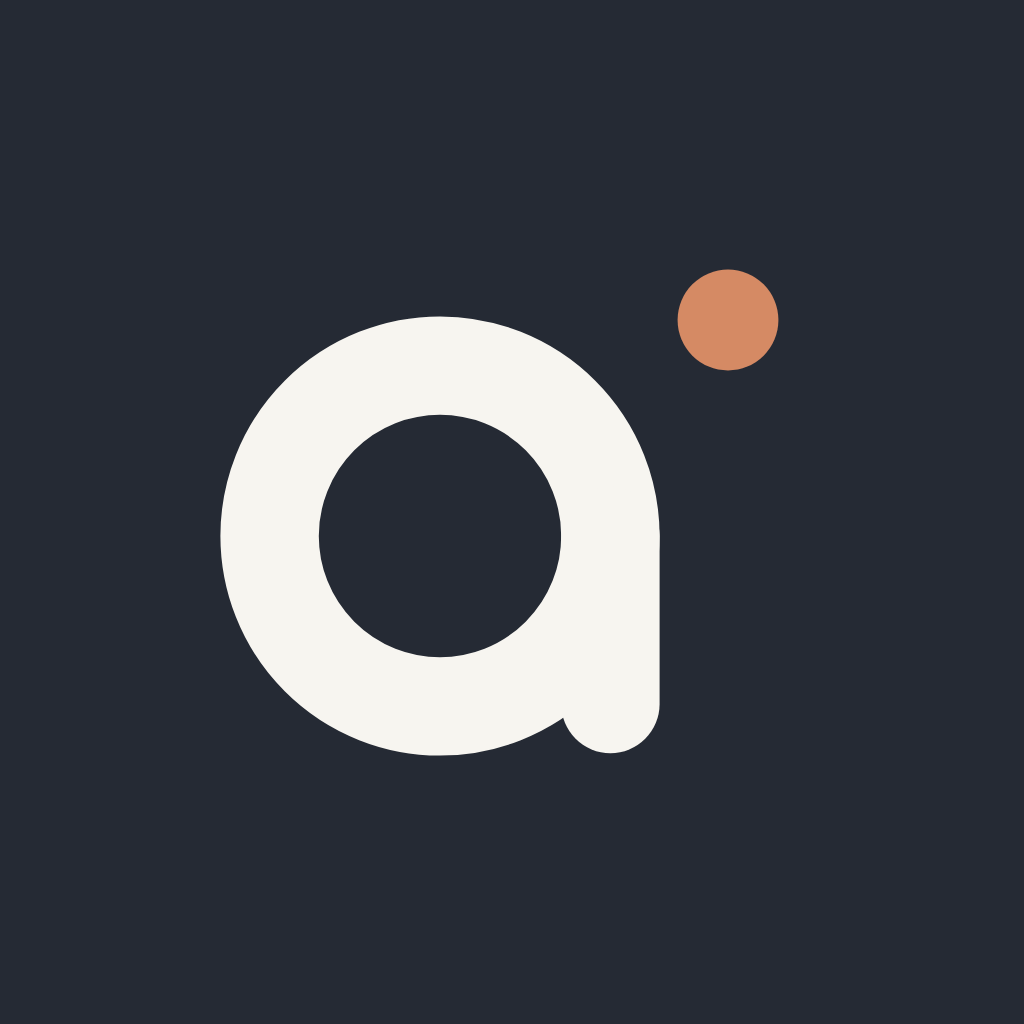
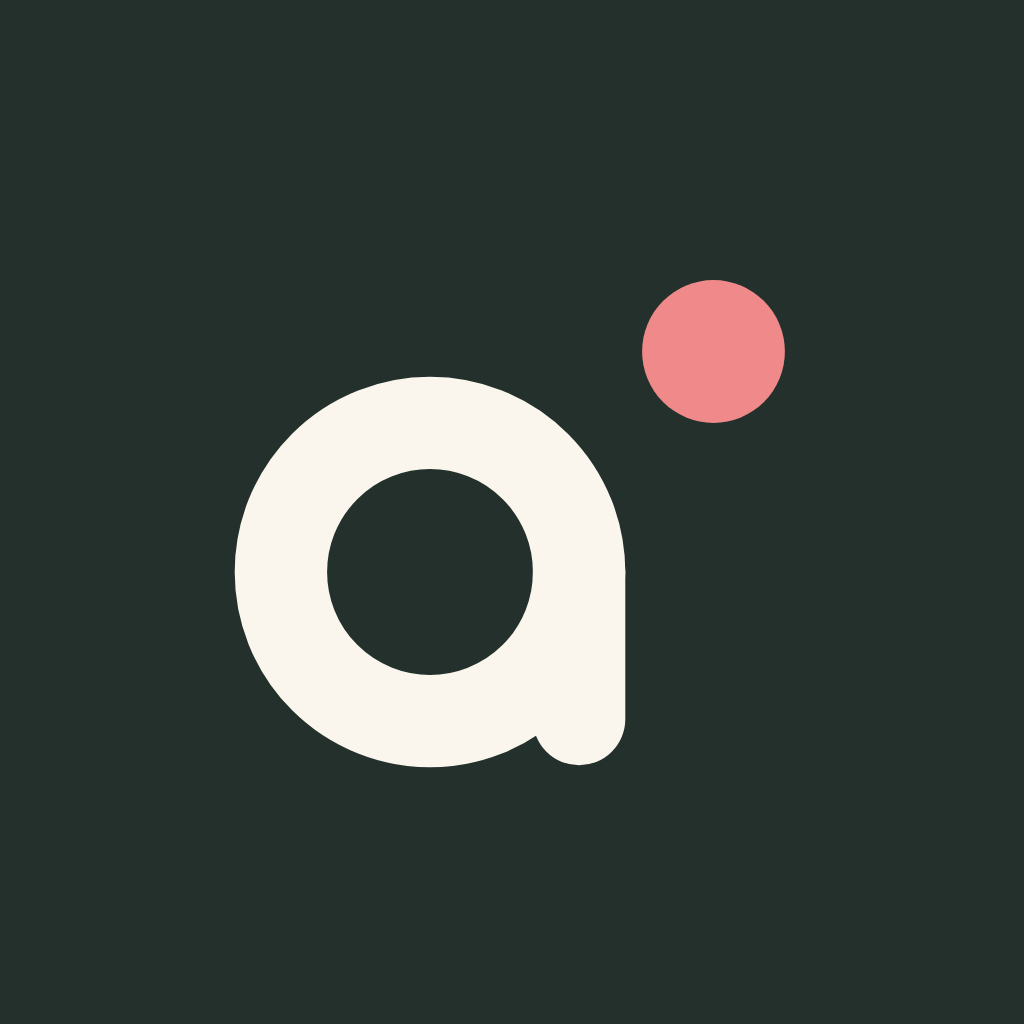
[AFTER] feat: 앱 로고 — a 에 블러시 점 (#75)
같은 a 에 점을 키우고(r 2.1 → 3.4) 블러시로 칠한다. 기존 심벌을 잇되 작게 봐도
"설레는" 인상이 남게.

- 앱 아이콘·스토어 1024·파비콘·홈 화면 아이콘·스플래시·헤더 마크(LogoMark)
- 토큰 --brand-blush: 크림 화면 #EB7B78 / 다크 #F08A8A. 봉랍(signature)은 그대로
- 고친 것: icon-512·apple-touch-icon 이 512 캔버스 왼쪽 위 64px 에만 그려져
  배포되고 있었다(favicon.svg 의 intrinsic 크기를 그대로 찍던 절차). 512 로
  찍고, 홈 화면 아이콘은 꽉 찬 스토어 아이콘에서 줄인다. 절차 문서도 고침

Changed region(s): [[0.1875, 0.25, 0.7812, 0.75], [0.25, 0.6562, 0.2812, 0.6875]]

diff --git a/src/styles.css b/src/styles.css
@@ -146,6 +146,7 @@
   --color-brand-700: var(--brand-700);
   --color-brand-800: var(--brand-800);
   --color-brand-signature: var(--brand-signature);
+  --color-brand-blush: var(--brand-blush);
   --color-brand-text: var(--brand-text);
   --color-brand-tint: var(--brand-tint);
   --color-peach-300: var(--peach-300);
@@ -199,6 +200,12 @@
 
   /* 봉랍: 로고 점·인용부호·링크·선택 표시. 큰 면으로 쓰지 않는다. */
   --brand-signature: var(--brand-700);
+  /*
+    로고 점(2026-10-11). 봉랍(signature)과 따로 둔다 — 봉랍은 인용부호·링크·선택에
+    쓰는 차분한 색이고, 점은 "설레는" 블러시다. 크림 바탕 위에서 묻히지 않게 아이콘
+    (#F08A8A)보다 한 단계 짙게 쓴다.
+  */
+  --brand-blush: oklch(0.709 0.139 22.8); /* #EB7B78 */
   --brand-text: var(--brand-700);
   --brand-tint: oklch(0.929 0.024 77.5); /* #F1E6D6 — 선택 면·내 말풍선 */
   --peach-300: var(--brand-tint);
@@ -313,6 +320,7 @@
   --bubble-mine: oklch(0.287 0.015 84.6); /* #2E2A22 — 글자 12.24 */
   --bubble-mine-foreground: var(--ink);
   --brand-signature: oklch(0.813 0.074 66.5);
+  --brand-blush: oklch(0.743 0.125 20.5); /* #F08A8A — 앱 아이콘과 같은 점 */
   --brand-text: oklch(0.813 0.074 66.5);
   --brand-tint: oklch(0.287 0.015 84.6);
 

diff --git a/src/components/Logo.tsx b/src/components/Logo.tsx
@@ -2,7 +2,9 @@ import { BRAND } from "@/lib/brand";
 import { cn } from "@/lib/utils";
 
 /**
- * Compact after monogram: a single-storey a with a small signature dot.
+ * Compact after monogram: a single-storey a with a blush dot (2026-10-11).
+ * 앱 아이콘(brand/app-icon-ios.svg)·파비콘과 같은 형태다. 점이 예전보다 크고
+ * 블러시라 작게 그려도 "설레는" 인상이 남는다.
  */
 export function LogoMark({ className }: { className?: string }) {
   return (
@@ -12,9 +14,9 @@ export function LogoMark({ className }: { className?: string }) {
       aria-hidden="true"
       className={cn("size-6 text-foreground", className)}
     >
-      <circle cx="13" cy="17" r="7.1" stroke="currentColor" strokeWidth="4.1" />
-      <path d="M20.1 17v7" stroke="currentColor" strokeWidth="4.1" strokeLinecap="round" />
-      <circle cx="25" cy="8" r="2.1" fill="var(--color-brand-signature)" />
+      <circle cx="13" cy="17" r="7.1" stroke="currentColor" strokeWidth="4.4" />
+      <path d="M20.1 17v7" stroke="currentColor" strokeWidth="4.4" strokeLinecap="round" />
+      <circle cx="26.5" cy="6.5" r="3.4" fill="var(--color-brand-blush)" />
     </svg>
   );
 }

diff --git a/docs/brand-assets.md b/docs/brand-assets.md
@@ -1,6 +1,6 @@
 # 애프터 브랜드 자산
 
-현재 기준은 [리브랜딩 설계안](after-rebrand-plan.md)이다. 워드마크·심벌 SVG가 원본이며, 화면 마크는 [Logo.tsx](../src/components/Logo.tsx), 웹 아이콘은 [favicon.svg](../public/favicon.svg), iOS 아이콘은 [app-icon-ios.svg](../brand/app-icon-ios.svg), 실행 화면은 [splash.svg](../brand/splash.svg)에서 관리한다.
+현재 기준은 [리브랜딩 설계안](after-rebrand-plan.md)이다. 2026-10-11 심벌을 바꿨다: 같은 a 에 점을 키우고(r 3.4) 블러시(#F08A8A, 크림 바탕 화면에서는 #EB7B78)로 칠했다. 배경 잉크 #23302B, 글자 크림 #FAF6EE. 워드마크·심벌 SVG가 원본이며, 화면 마크는 [Logo.tsx](../src/components/Logo.tsx), 웹 아이콘은 [favicon.svg](../public/favicon.svg), iOS 아이콘은 [app-icon-ios.svg](../brand/app-icon-ios.svg), 실행 화면은 [splash.svg](../brand/splash.svg)에서 관리한다.
 
 ## 래스터 자산 재생성
 
@@ -9,15 +9,21 @@ macOS의 Chrome과 `sips`를 사용한다. 벡터를 고친 뒤 저장소 루트
 ```bash
 CHROME="/Applications/Google Chrome.app/Contents/MacOS/Google Chrome"
 
+# favicon.svg 는 width/height 가 64 라 그대로 찍으면 512 캔버스 왼쪽 위 64px 에만
+# 그려진다(2026-10-11 까지 실제로 그렇게 배포됐다). 512 로 바꾼 사본을 찍는다.
+sed 's/width="64" height="64"/width="512" height="512"/' public/favicon.svg > /tmp/favicon-512.svg
 "$CHROME" --headless --disable-gpu --force-device-scale-factor=1 \
   --screenshot="$PWD/public/icon-512.png" --window-size=512,512 \
-  --default-background-color=00000000 "file://$PWD/public/favicon.svg"
-sips -z 180 180 public/icon-512.png --out public/apple-touch-icon.png
+  --default-background-color=00000000 "file:///tmp/favicon-512.svg"
+python3 -c "from PIL import Image; Image.open('public/icon-512.png').save('public/favicon.ico', sizes=[(16,16),(32,32),(48,48)])"
 
 "$CHROME" --headless --disable-gpu --force-device-scale-factor=1 \
   --screenshot="$PWD/brand/app-store-1024.png" --window-size=1024,1024 \
   --default-background-color=ffffffff "file://$PWD/brand/app-icon-ios.svg"
 cp brand/app-store-1024.png ios/App/App/Assets.xcassets/AppIcon.appiconset/AppIcon-512@2x.png
+# 홈 화면 아이콘은 iOS 가 직접 모서리를 깎는다. 투명 모서리가 있으면 검게 보이므로
+# 둥근 favicon 이 아니라 꽉 찬 스토어 아이콘에서 줄인다.
+sips -z 180 180 brand/app-store-1024.png --out public/apple-touch-icon.png
 
 "$CHROME" --headless --disable-gpu --force-device-scale-factor=1 \
   --screenshot="$PWD/ios/App/App/Assets.xcassets/Splash.imageset/splash-2732x2732.png" \
